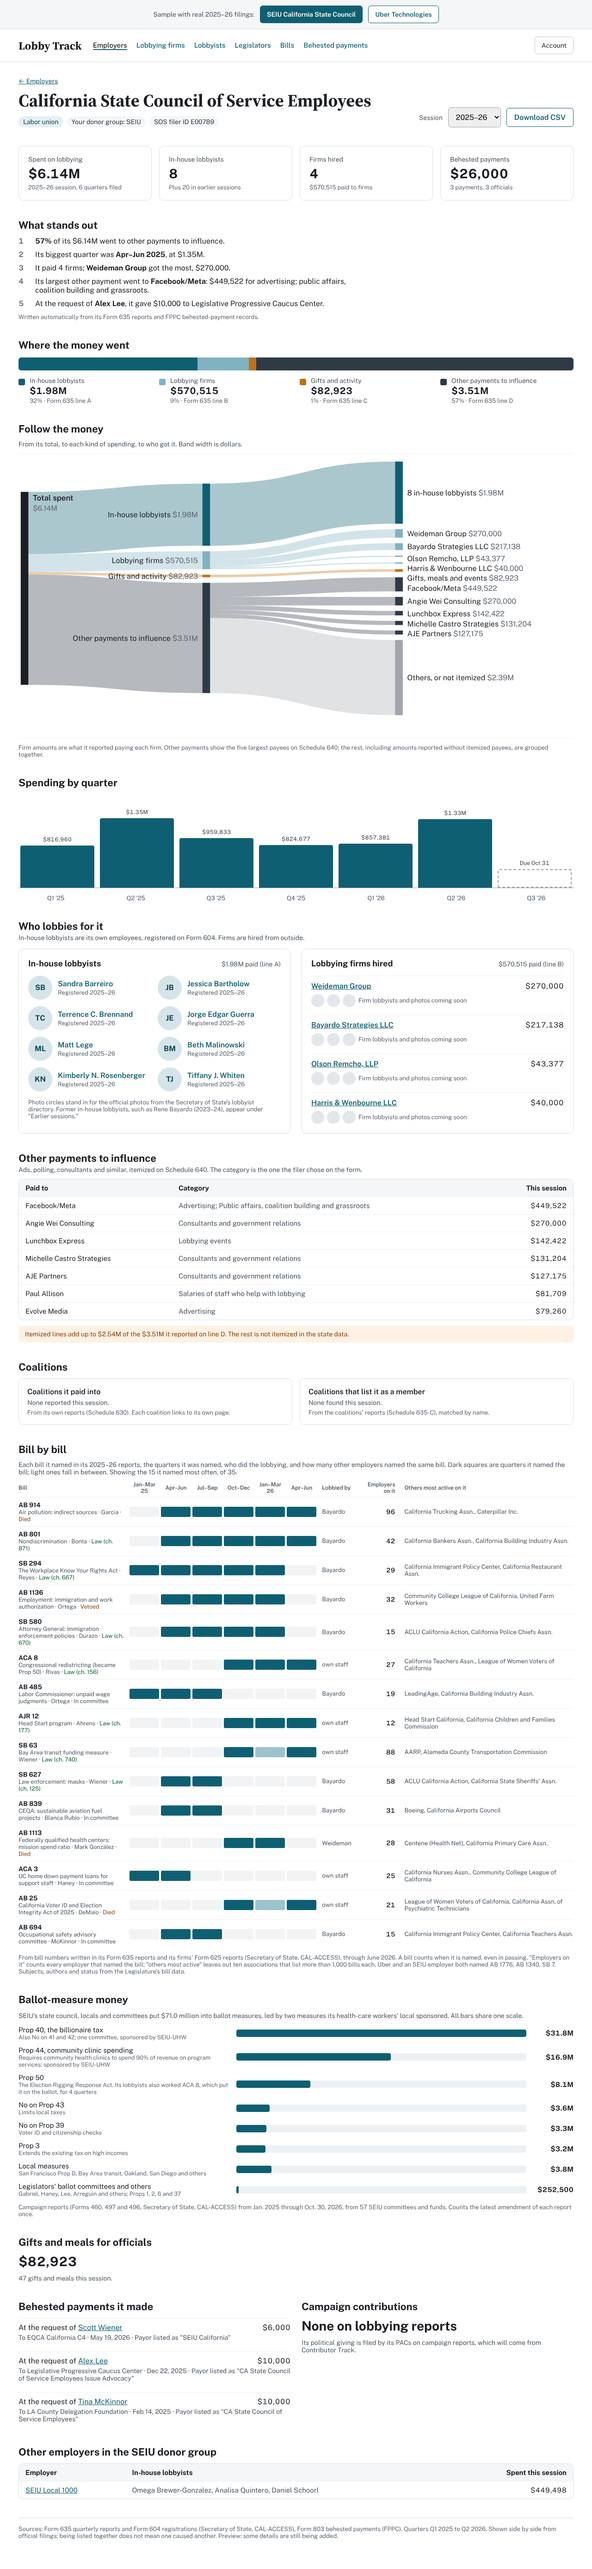
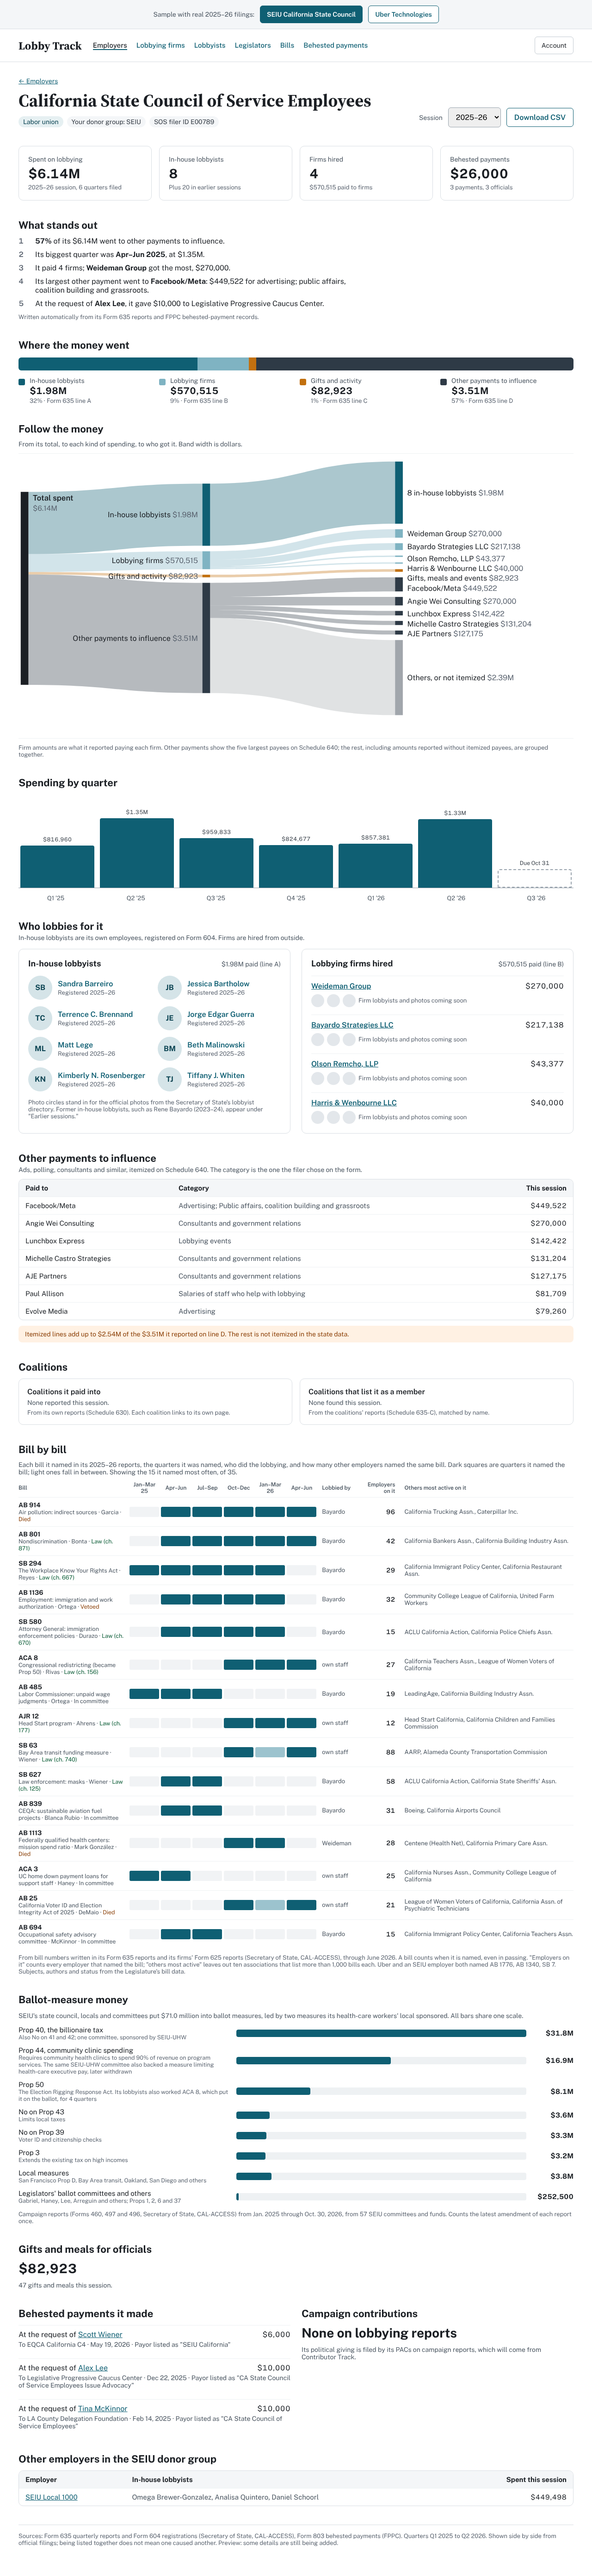
Show the Uber and trial lawyer measures side by side, from Ann's committee list
Claude-Session: https://claude.ai/code/session_013wSKFYhvjsWLfhMDXcuD88

diff --git a/index.html b/index.html
@@ -565,7 +565,7 @@ a{color:#0F5F73}a:hover{color:#0A4352}
           <div style="text-align: right; font-variant-numeric: tabular-nums; font-weight: 700">$31.8M</div>
         </div>
         <div style="display: grid; grid-template-columns: minmax(150px, 2.2fr) 3fr minmax(90px, auto); gap: 12px; align-items: center; font-size: 15px">
-          <div>Prop 44, community clinic spending<div style="font-size: 12.5px; color: #5B6470">Requires community health clinics to spend 90% of revenue on program services; sponsored by SEIU-UHW</div></div>
+          <div>Prop 44, community clinic spending<div style="font-size: 12.5px; color: #5B6470">Requires community health clinics to spend 90% of revenue on program services. The same SEIU-UHW committee also backed a measure limiting health-care executive pay, later withdrawn</div></div>
           <div style="background: #EEF1F3; border-radius: 4px; height: 16px; overflow: hidden"><div style="width: 53.2%; height: 100%; background: #0F5F73; border-radius: 4px"></div></div>
           <div style="text-align: right; font-variant-numeric: tabular-nums; font-weight: 700">$16.9M</div>
         </div>
@@ -1112,32 +1112,33 @@ a{color:#0F5F73}a:hover{color:#0A4352}
       <p style="margin: 0; font-size: 13px; color: #5B6470">From bill numbers written in its Form 635 reports and its firms' Form 625 reports (Secretary of State, CAL-ACCESS), through June 2026. A bill counts when it is named, even in passing. "Employers on it" counts every employer that named the bill; "others most active" leaves out ten associations that list more than 1,000 bills each. Uber and an SEIU employer both named AB 1776, AB 1340, SB 7. Subjects, authors and status from the Legislature's bill data.</p>
     </section>
 
-    <section style="display: flex; flex-direction: column; gap: 14px">
+    <section style="display: flex; flex-direction: column; gap: 12px">
       <h2 style="margin: 0; font-size: 22px">The ballot-measure fight</h2>
-      <p style="margin: 0; font-size: 14px; color: #4A5560">Uber put $78.8 million into its own initiative, the Protecting Automobile Accident Victims from Attorney Self-Dealing Act. The trial lawyers' committee put $30 million behind an initiative on sexual assault in rideshares, and pain practices funded a committee of their own. Neither initiative is on the November 2026 ballot. All bars share one scale.</p>
-      <div style="display: flex; flex-direction: column; gap: 12px">
-        <div style="display: grid; grid-template-columns: minmax(150px, 2.2fr) 3fr minmax(90px, auto); gap: 12px; align-items: center; font-size: 15px">
-          <div><strong>Uber</strong> for Initiative 25-0022<div style="font-size: 12.5px; color: #5B6470">Protecting Automobile Accident Victims from Attorney Self-Dealing Act; through "A More Affordable California, sponsored by Uber"</div></div>
-          <div style="background: #EEF1F3; border-radius: 4px; height: 16px; overflow: hidden"><div style="width: 100.0%; height: 100%; background: #0F5F73; border-radius: 4px"></div></div>
-          <div style="text-align: right; font-variant-numeric: tabular-nums; font-weight: 700">$78.8M</div>
-        </div>
-        <div style="display: grid; grid-template-columns: minmax(150px, 2.2fr) 3fr minmax(90px, auto); gap: 12px; align-items: center; font-size: 15px">
-          <div>Uber against Initiative 25-0029<div style="font-size: 12.5px; color: #5B6470">Through the same committee</div></div>
-          <div style="background: #EEF1F3; border-radius: 4px; height: 16px; overflow: hidden"><div style="width: 0.4%; height: 100%; background: #0F5F73; border-radius: 4px"></div></div>
-          <div style="text-align: right; font-variant-numeric: tabular-nums; font-weight: 700">$3,109</div>
-        </div>
-        <div style="display: grid; grid-template-columns: minmax(150px, 2.2fr) 3fr minmax(90px, auto); gap: 12px; align-items: center; font-size: 15px">
-          <div><strong>Consumer Attorneys</strong> for Initiative 25-0029<div style="font-size: 12.5px; color: #5B6470">Sexual Assault Against Rideshare Passengers and Drivers Prevention and Accountability Act; their Initiative Defense PAC's gifts to the Alliance Against Corporate Abuse</div></div>
-          <div style="background: #EEF1F3; border-radius: 4px; height: 16px; overflow: hidden"><div style="width: 38.1%; height: 100%; background: #C2700F; border-radius: 4px"></div></div>
-          <div style="text-align: right; font-variant-numeric: tabular-nums; font-weight: 700">$30.0M</div>
-        </div>
-        <div style="display: grid; grid-template-columns: minmax(150px, 2.2fr) 3fr minmax(90px, auto); gap: 12px; align-items: center; font-size: 15px">
-          <div><strong>Pain practices and doctors</strong><div style="font-size: 12.5px; color: #5B6470">About $711,000 in gifts to "Providers for Patient Care, sponsored by Americans for Patient Access," a general-purpose committee; about $10,100 more went to the 25-0029 committee</div></div>
-          <div style="background: #EEF1F3; border-radius: 4px; height: 16px; overflow: hidden"><div style="width: 0.9%; height: 100%; background: #8A3F06; border-radius: 4px"></div></div>
-          <div style="text-align: right; font-variant-numeric: tabular-nums; font-weight: 700">$711,000</div>
-        </div>
+      <p style="margin: 0; font-size: 14px; color: #4A5560">Uber and the trial lawyers each pushed initiatives aimed at the other. Uber's would cap attorney fees in car-accident cases; the trial lawyers' would widen rideshare companies' liability. Pain practices, which joined the fight against the fee cap, formed their own committee. None of these measures is on the November 2026 ballot.</p>
+      <div style="overflow-x: auto">
+      <table style="border-collapse: collapse; width: 100%; min-width: 720px; font-size: 14px">
+        <thead><tr style="font-size: 12px; color: #4A5560"><th style="text-align: left; font-weight: 600; padding: 0 12px 6px 0">Measure</th><th style="text-align: left; font-weight: 600; padding: 0 12px 6px">For</th><th style="text-align: left; font-weight: 600; padding: 0 12px 6px">Against</th></tr></thead>
+        <tbody>
+        <tr style="border-top: 1px solid #EEF1F3; vertical-align: top">
+          <th scope="row" style="text-align: left; padding: 12px 12px 12px 0; font-weight: 700; width: 30%">Caps car-accident victims' attorney fees<div style="font-weight: 400; font-size: 12.5px; color: #5B6470">Initiative 25-0022 · withdrawn or failed to qualify</div></th>
+          <td style="padding: 12px; display: grid; gap: 8px"><div style="display: flex; flex-direction: column; gap: 2px"><div><span style="display: inline-block; width: 10px; height: 10px; border-radius: 2px; background: #0F5F73; margin-right: 6px"></span><strong>Uber</strong> <span style="font-variant-numeric: tabular-nums; font-weight: 700">$78.8M</span></div><div style="font-size: 12.5px; color: #5B6470">A More Affordable California, sponsored by Uber</div></div></td>
+          <td style="padding: 12px"><div style="display: grid; gap: 8px"><div style="display: flex; flex-direction: column; gap: 2px"><div><span style="display: inline-block; width: 10px; height: 10px; border-radius: 2px; background: #C2700F; margin-right: 6px"></span><strong>Consumer Attorneys</strong></div><div style="font-size: 12.5px; color: #5B6470">Alliance Against Corporate Abuse</div></div><div style="display: flex; flex-direction: column; gap: 2px"><div><span style="display: inline-block; width: 10px; height: 10px; border-radius: 2px; background: #8A3F06; margin-right: 6px"></span><strong>Pain practices and doctors</strong> <span style="font-variant-numeric: tabular-nums; font-weight: 700">about $711,000</span></div><div style="font-size: 12.5px; color: #5B6470">Providers for Patient Care, sponsored by Americans for Patient Access</div></div></div></td></tr>
+        <tr style="border-top: 1px solid #EEF1F3; vertical-align: top">
+          <th scope="row" style="text-align: left; padding: 12px 12px 12px 0; font-weight: 700; width: 30%">Rideshare sexual misconduct<div style="font-weight: 400; font-size: 12.5px; color: #5B6470">Initiative 25-0029 · withdrawn or failed to qualify</div></th>
+          <td style="padding: 12px; display: grid; gap: 8px"><div style="display: flex; flex-direction: column; gap: 2px"><div><span style="display: inline-block; width: 10px; height: 10px; border-radius: 2px; background: #C2700F; margin-right: 6px"></span><strong>Consumer Attorneys</strong> <span style="font-variant-numeric: tabular-nums; font-weight: 700">at least $35M</span></div><div style="font-size: 12.5px; color: #5B6470">Alliance Against Corporate Abuse, sponsored by Consumer Attorneys of California; one committee for all three of its measures</div></div></td>
+          <td style="padding: 12px"><div style="display: flex; flex-direction: column; gap: 2px"><div><span style="display: inline-block; width: 10px; height: 10px; border-radius: 2px; background: #0F5F73; margin-right: 6px"></span><strong>Uber</strong></div></div></td></tr>
+        <tr style="border-top: 1px solid #EEF1F3; vertical-align: top">
+          <th scope="row" style="text-align: left; padding: 12px 12px 12px 0; font-weight: 700; width: 30%">Expands rideshare liability for car accidents<div style="font-weight: 400; font-size: 12.5px; color: #5B6470">Withdrawn or failed to qualify</div></th>
+          <td style="padding: 12px; display: grid; gap: 8px"><div style="display: flex; flex-direction: column; gap: 2px"><div><span style="display: inline-block; width: 10px; height: 10px; border-radius: 2px; background: #C2700F; margin-right: 6px"></span><strong>Consumer Attorneys</strong></div><div style="font-size: 12.5px; color: #5B6470">Same committee</div></div></td>
+          <td style="padding: 12px"><div style="display: flex; flex-direction: column; gap: 2px"><div><span style="display: inline-block; width: 10px; height: 10px; border-radius: 2px; background: #0F5F73; margin-right: 6px"></span><strong>Uber</strong></div></div></td></tr>
+        <tr style="border-top: 1px solid #EEF1F3; vertical-align: top">
+          <th scope="row" style="text-align: left; padding: 12px 12px 12px 0; font-weight: 700; width: 30%">Right to counsel of choice<div style="font-weight: 400; font-size: 12.5px; color: #5B6470">Withdrawn or failed to qualify</div></th>
+          <td style="padding: 12px; display: grid; gap: 8px"><div style="display: flex; flex-direction: column; gap: 2px"><div><span style="display: inline-block; width: 10px; height: 10px; border-radius: 2px; background: #C2700F; margin-right: 6px"></span><strong>Consumer Attorneys</strong></div><div style="font-size: 12.5px; color: #5B6470">Same committee</div></div></td>
+          <td style="padding: 12px"><span style="color: #8A9199">No committee listed</span></td></tr>
+        </tbody>
+      </table>
       </div>
-      <p style="margin: 0; font-size: 13px; color: #5B6470">Campaign reports (Forms 460, 497 and 496, Secretary of State, CAL-ACCESS) from Jan. 2025 through Oct. 30, 2026. The Uber committee later moved $9.2 million to the Uber Innovation Ballot Measure Committee, which gave to legislators' ballot committees and the Bay Area transit measure; that is not counted twice. The initiatives' filings give no proposition numbers. The pain-practice total is approximate and comes from donors' names and employers.</p>
+      <p style="margin: 0; font-size: 13px; color: #5B6470">Committees and positions from Eureka Track's ballot-measure list; money from campaign reports (Forms 460, 497 and 496, Secretary of State, CAL-ACCESS), Jan. 2025 through Oct. 30, 2026. Committees that worked on several measures are shown once with their total: Uber's $78.8M is everything it gave its committee, and "at least $35M" is the trial lawyers' committee's three largest donors. The Uber committee later moved $9.2M to the Uber Innovation Ballot Measure Committee, not counted twice. The pain-practice total is approximate.</p>
     </section>
 
     <section style="display: flex; flex-direction: column; gap: 12px">
